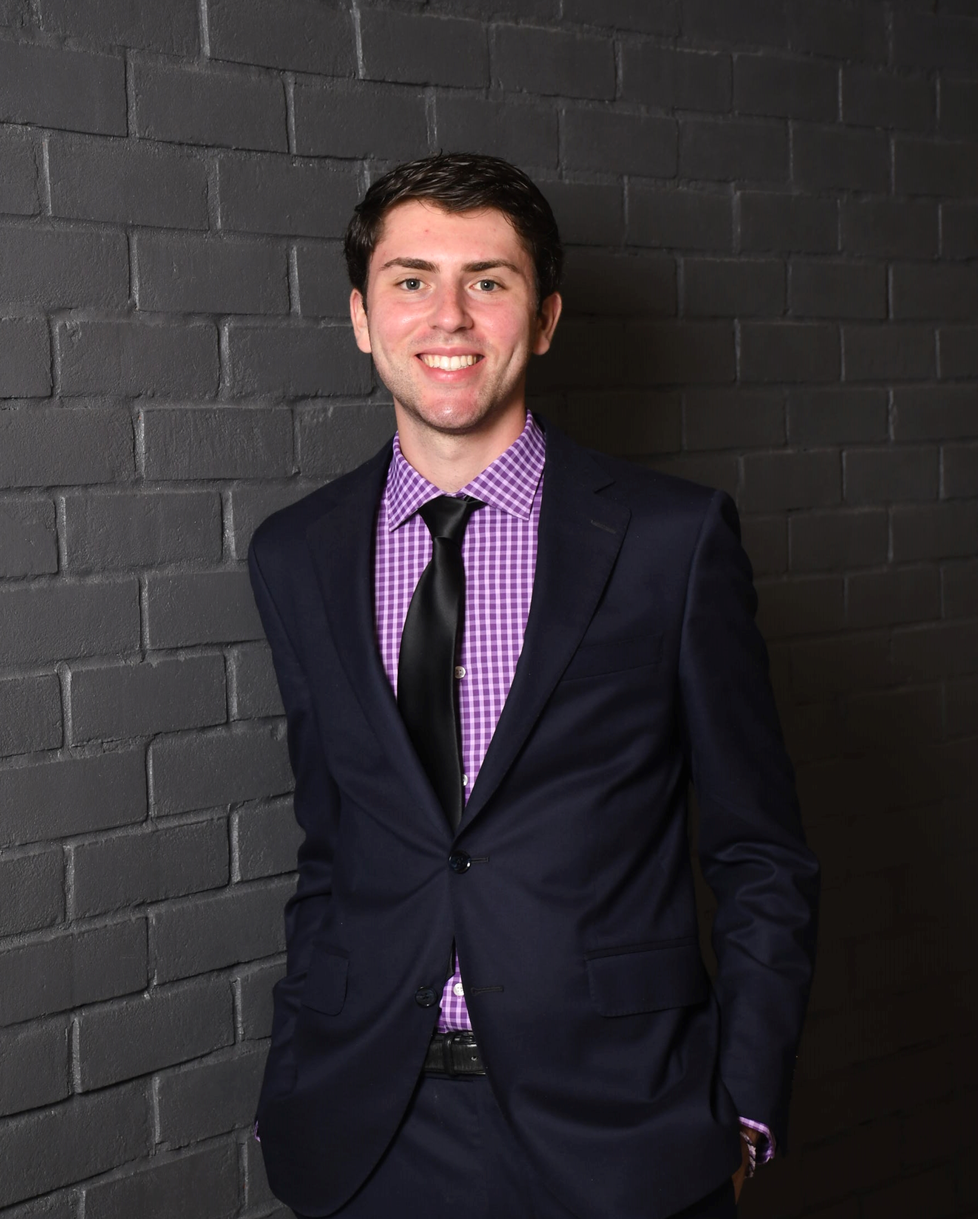
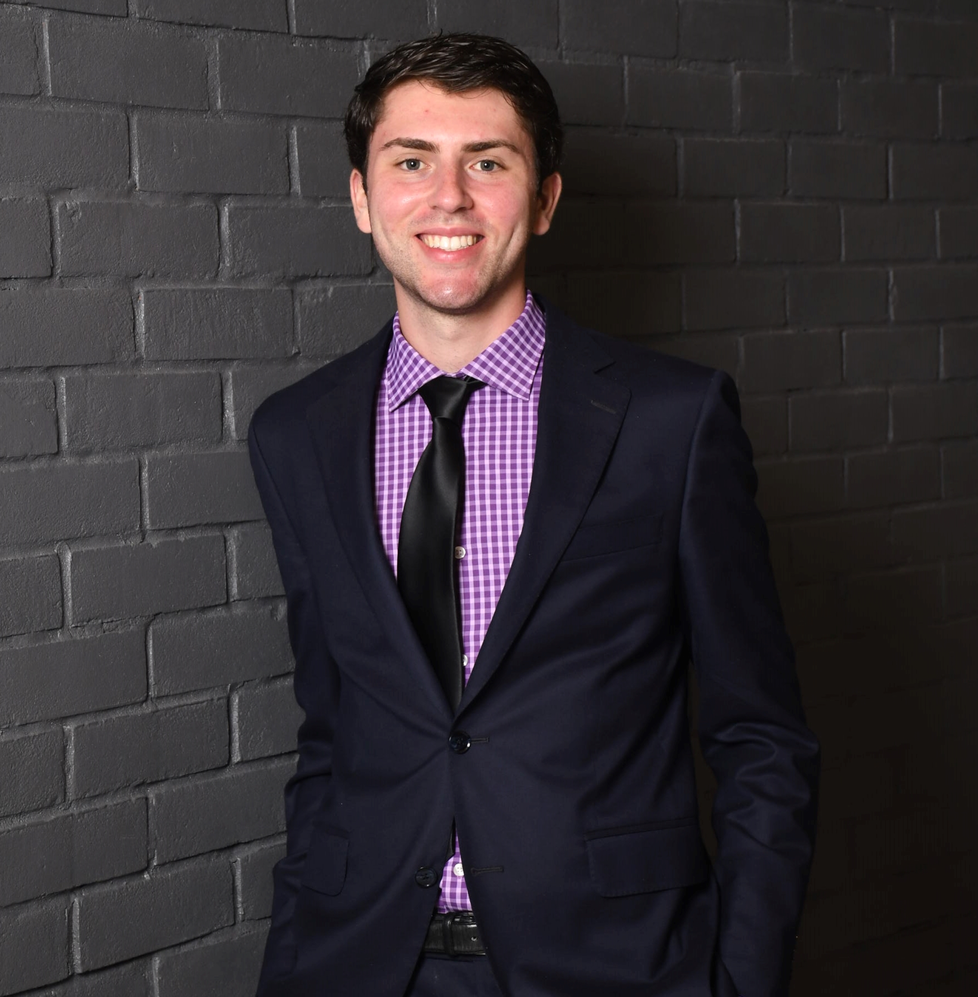
Changed experience to skills, added blurbs and rounded profile pic

diff --git a/components/skills.tsx b/components/skills.tsx
@@ -1,0 +1,90 @@
+import { RefObject } from 'react'
+import { IconContext } from 'react-icons'
+import { FaReact, FaJava, FaLinux, FaGitSquare } from 'react-icons/fa'
+import { SiMysql, SiCsharp } from 'react-icons/si'
+
+export type Skill = {
+   skill: string
+   icon: JSX.Element
+   blurb: string
+}
+
+const Skills = ({
+   skillsRef,
+}: {
+   skillsRef: RefObject<HTMLParagraphElement>
+}) => {
+   const skills: Skill[] = [
+      {
+         skill: `React`,
+         icon: <FaReact />,
+         blurb: `I started teaching myself React & ES6 in 2019 and still learning. I've built
+         a few projects with React including this website which uses the NextJS framework, typescript
+         and Tailwind css. I really enjoy working with React.`,
+      },
+      {
+         skill: `Java`,
+         icon: <FaJava />,
+         blurb: `I have 5 years of academic experience with Java and Java frameworks. Throughout my
+         academia, I've worked on many java programming assignments but some of the bigger projects 
+         I've worked on were a twitter client using Java FX (solo project) a full stack e-commerce 
+         application using Java Server Faces (JSF) and Java Persistence API (JPA) (team project).`,
+      },
+      {
+         skill: `SQL`,
+         icon: <SiMysql />,
+         blurb: `I have a lot of academic experience with SQL databases. I've used it in database classes
+         as well as in my other programming classes where my teammates needed to created a backend to 
+         connect to an SQLite database which we also created. `,
+      },
+      {
+         skill: `C#`,
+         icon: <SiCsharp />,
+         blurb: `The experience I have with C# is mostly academic. I've made a few applications using the
+         Windows Presentation Foundation (WPF) framework. I've also dabbled in the Unity game engine
+         which uses C# as a scripting language.`,
+      },
+      {
+         skill: `Git`,
+         icon: <FaGitSquare />,
+         blurb: `Git is without question the tool I've used the most. I've been involved in many academic 
+         team projects with a good amount of people (4-6 people) and therefore required best git practices.
+         Even when developing a project by myself I will use it.`,
+      },
+      {
+         skill: `Linux`,
+         icon: <FaLinux />,
+         blurb: `I'm very familiar with the Unix/Linux command line. I've used it a lot in school and
+         I continue to use it personally. I've devoted some time to learning ethical hacking on TryHackMe.com
+         and OverTheWire`,
+      },
+   ]
+   return (
+      <>
+         <p
+            ref={skillsRef}
+            className="font-bold font-mono text-xl scroll-mt-16"
+         >
+            Skills
+         </p>
+         <IconContext.Provider value={{ size: '4em', color: 'white' }}>
+            <div className="flex flex-row flex-wrap justify-center gap-10">
+               {skills.map((item) => {
+                  const { skill, icon, blurb } = item
+                  return (
+                     <div
+                        key={skill}
+                        className="flex flex-col items-center gap-y-4 sm:w-1/4"
+                     >
+                        {icon}
+                        <p className="text-center font-mono">{blurb}</p>
+                     </div>
+                  )
+               })}
+            </div>
+         </IconContext.Provider>
+      </>
+   )
+}
+
+export default Skills

diff --git a/components/about.tsx b/components/about.tsx
@@ -12,15 +12,20 @@ const AboutMe = ({
          <p ref={aboutRef} className="font-bold text-xl font-mono scroll-mt-20">
             About me
          </p>
-         <div className="w-3/5 sm:w-1/4">
-            <Image src={profile} alt="profile pic" layout="responsive" />
+         <div className="w-3/5 sm:w-1/4 overflow-hidden rounded-full ">
+            <Image
+               src={profile}
+               alt="profile pic"
+               layout="responsive"
+               objectFit="cover"
+            />
          </div>
          <p className="sm:w-1/3 font-mono">
             <span className="text-2xl font-bold">&gt;_</span> A 3rd year
             software engineering at Concordia University student who&apos;s
             extremely passionate about programming, computers and engineering.
-            Before studying at Concordia, I completed a computer science DEC at
-            Dawson College.
+            Before studying at Concordia, I completed a computer science DEC
+            {" (Diplome d'Etudes Collegiales) "} at Dawson College.
          </p>
       </>
    )

diff --git a/pages/index.tsx b/pages/index.tsx
@@ -6,7 +6,7 @@ import acnhUI from '../assets/acnh-ui.png'
 import noImage from '../assets/no-image.jpeg'
 import { RefObject, useRef } from 'react'
 import AboutMe from '../components/about'
-import Skills from '../components/experience'
+import Skills from '../components/skills'
 import { StaticImageData } from 'next/image'
 import Projects from '../components/projects'
 
@@ -68,7 +68,7 @@ const Home: NextPage = () => {
    return (
       <Layout navElements={navElements}>
          <Head>
-            <title>{"Evan Greenstein's Dev Portfolio"}</title>
+            <title>{"Evan Greenstein | Portfolio"}</title>
             <link rel="icon" href="/favicon.ico" />
          </Head>
 
